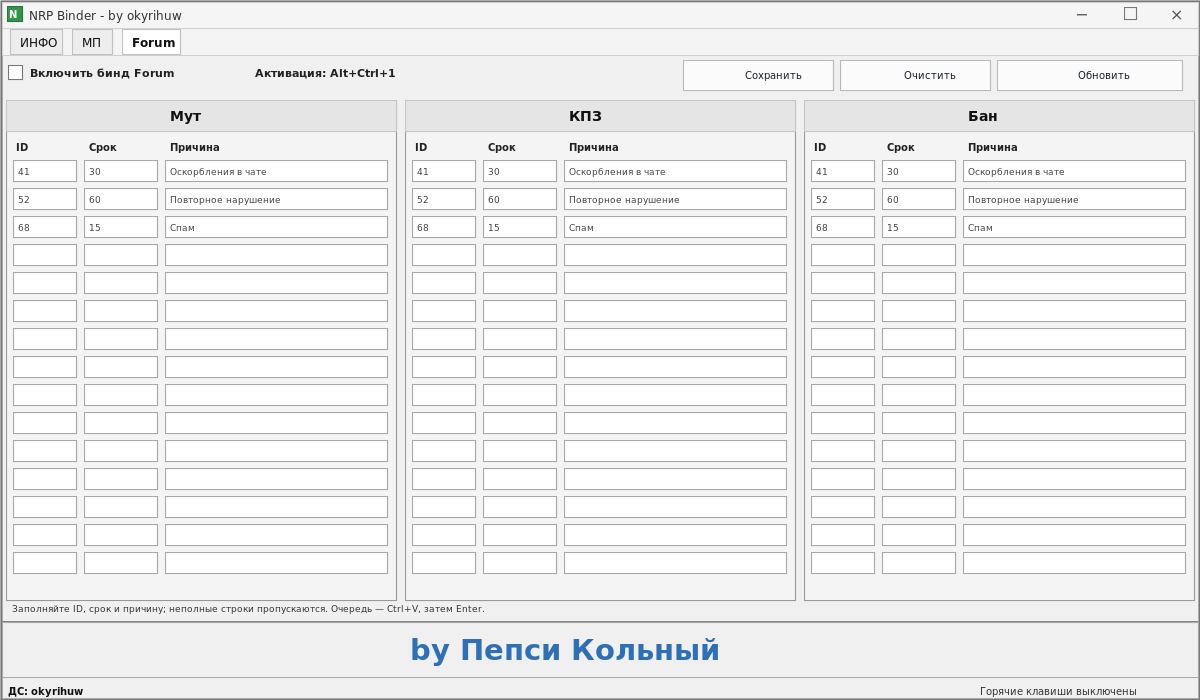
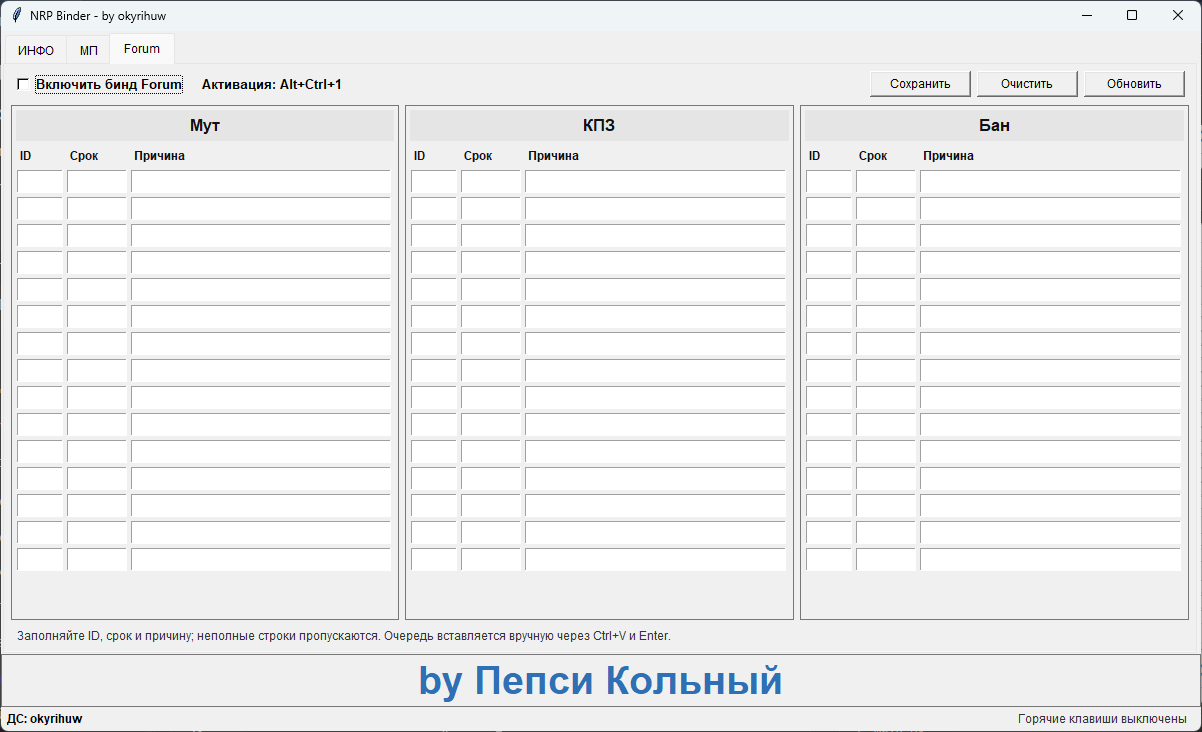
Use supplied screenshots and slashless Forum commands

Changed region(s): [[0.0, 0.0, 1.0, 1.0]]

diff --git a/main.py b/main.py
@@ -466,7 +466,7 @@ class App:
                   command=self._show_gmp_help, font=("Arial", 11)).pack(pady=5)
         tk.Button(card, text="Режим работы программы", width=30, height=2,
                   command=self._show_work_mode, font=("Arial", 11)).pack(pady=5)
-        tk.Label(card, text="Настройка игроков и горячих клавиш — во вкладке «МП».",
+        tk.Label(card, text="Настройка игроков и горячих клавиш - во вкладке «МП».",
                  bg=self.BG, font=("Arial", 10)).pack(pady=(15, 5))
 
     def _show_help_window(self, title: str, body: str) -> None:
@@ -496,9 +496,9 @@ class App:
                   font=("Arial", 10), width=14).grid(row=2, column=0, pady=(0, 10))
 
     def _show_gmp_help(self) -> None:
-        self._show_help_window("Как пользоваться МП", """1. Заполните ID игроков в нужной колонке. Четыре колонки — независимые группы, в каждой можно указать до 15 игроков. Пустые ID пропускаются.
+        self._show_help_window("Как пользоваться МП", """1. Заполните ID игроков в нужной колонке. Четыре колонки - независимые группы, в каждой можно указать до 15 игроков. Пустые ID пропускаются.
 
-2. Скины делят игроков внутри одной колонки на две последовательные команды. Если заполнены оба поля: первая половина ID получает «Скин 1», вторая — «Скин 2». При нечётном числе игроков первая команда получает на одного игрока больше. Если заполнено только одно поле скина, он применяется ко всем ID этой группы.
+2. Скины делят игроков внутри одной колонки на две последовательные команды. Если заполнены оба поля: первая половина ID получает «Скин 1», вторая - «Скин 2». При нечётном числе игроков первая команда получает на одного игрока больше. Если заполнено только одно поле скина, он применяется ко всем ID этой группы.
 
 3. Укажите до трёх ячеек оружия. Для каждого ID оружия выдаются по порядку: сначала все заполненные слоты первому игроку, затем следующему. Команда `/weapongive` получает 1000 патронов.
 
@@ -507,12 +507,12 @@ class App:
 5. Нажмите «Сохранить» для записи текущего пресета. «Обновить из пресета» загружает последнее сохранение, «Очистить поля» очищает только экран.
 
 БИНДЫ
-Ctrl+1 — телепорт игроков к себе
-Ctrl+2 — выдать скины по командам
-Ctrl+3 — выдать оружие
-Ctrl+4 — выдать здоровье
-Ctrl+5 — выдать броню
-Ctrl+6 — возродить игроков""")
+Ctrl+1 - телепорт игроков к себе
+Ctrl+2 - выдать скины по командам
+Ctrl+3 - выдать оружие
+Ctrl+4 - выдать здоровье
+Ctrl+5 - выдать броню
+Ctrl+6 - возродить игроков""")
 
     def _show_work_mode(self) -> None:
         self._show_help_window("Режим работы программы", """Программа работает полуавтоматически: она подготавливает команды в буфере обмена, а вставку и Enter вы нажимаете сами.
@@ -684,7 +684,7 @@ Ctrl+6 — возродить игроков""")
                     continue
                 if "\n" in reason or "\r" in reason:
                     continue
-                commands.append(f"/{command} {player_id} {duration} {reason}")
+                commands.append(f"{command} {player_id} {duration} {reason}")
         return commands
 
     def _field(self, parent: tk.Widget, key: str, label: str, row: int, width: int = 10,
@@ -816,7 +816,7 @@ Ctrl+6 — возродить игроков""")
     def _hotkey_action(self, index: int) -> None:
         commands = self._forum_commands() if index == len(HOTKEYS) else self._commands_for(index)
         if not commands:
-            self.status.set("Нет заполненных данных — очередь не создана")
+            self.status.set("Нет заполненных данных - очередь не создана")
             return
 
         target_hwnd = self.hotkeys.foreground_hwnd()

diff --git a/README.md b/README.md
@@ -1,4 +1,4 @@
-# NRP Binder — by okyrihuw
+# NRP Binder - by okyrihuw
 
 **Помощник для администрации NextRP**, созданный для повседневной работы с игровыми командами и форумными наказаниями.
 
@@ -9,7 +9,7 @@
 
 ## Интерфейс
 
-Ниже — предварительные иллюстративные макеты трёх вкладок. Они показывают состав и расположение элементов; это не снимки запущенного Windows-приложения.
+Скриншоты вкладок МП и Forum предоставлены владельцем проекта. Для ИНФО пока оставлен иллюстративный предпросмотр: файл этого скриншота не попал в доступные вложения.
 
 <table>
   <tr>
@@ -28,12 +28,12 @@
 
 ### МП
 
-Четыре независимые группы игроков. В каждой — до 15 ID, два скина и три слота оружия. Пустые и некорректно заполненные поля пропускаются.
+Четыре независимые группы игроков. В каждой - до 15 ID, два скина и три слота оружия. Пустые и некорректно заполненные поля пропускаются.
 
 - Два скина делят список ID примерно пополам; при нечётном числе первая группа получает на одного игрока больше. Один заполненный скин применяется ко всем ID своей колонки.
 - Оружие обрабатывается по каждому ID: сначала все заполненные слоты 1→2→3, затем следующий игрок.
 - Здоровье и броня применяются ко всем заполненным ID.
-- Бинды: **Ctrl+1** — телепорт, **Ctrl+2** — скины, **Ctrl+3** — оружие, **Ctrl+4** — здоровье, **Ctrl+5** — броня, **Ctrl+6** — возрождения.
+- Бинды: **Ctrl+1** - телепорт, **Ctrl+2** - скины, **Ctrl+3** - оружие, **Ctrl+4** - здоровье, **Ctrl+5** - броня, **Ctrl+6** - возрождения.
 
 ### Forum
 
@@ -41,11 +41,11 @@
 
 | Колонка | Команда |
 | --- | --- |
-| Мут | `/pmute ID СРОК ПРИЧИНА` |
-| КПЗ | `/jail ID СРОК ПРИЧИНА` |
-| Бан | `/pban ID СРОК ПРИЧИНА` |
+| Мут | `pmute ID СРОК ПРИЧИНА` |
+| КПЗ | `jail ID СРОК ПРИЧИНА` |
+| Бан | `pban ID СРОК ПРИЧИНА` |
 
-Неполные строки пропускаются. Бинд очереди Forum — **Alt+Ctrl+1**. Переключатели биндов у МП и Forum независимы; приложение проверяет конфликты сочетаний между включёнными вкладками. Кнопки сохранения, очистки и загрузки в каждой вкладке относятся только к её собственным данным.
+Неполные строки пропускаются. Бинд очереди Forum - **Alt+Ctrl+1**. Переключатели биндов у МП и Forum независимы; приложение проверяет конфликты сочетаний между включёнными вкладками. Кнопки сохранения, очистки и загрузки в каждой вкладке относятся только к её собственным данным.
 
 ### Полуавтоматическая очередь
 
@@ -63,4 +63,4 @@ python main.py
 
 ## Авторство
 
-**NRP Binder — by okyrihuw** — административный помощник для сервера **Байкальский**. Программа и интерфейс — **by Пепси Кольный**. Discord для связи: **okyrihuw**.
+**NRP Binder - by okyrihuw** - административный помощник для сервера **Байкальский**. Программа и интерфейс - **by Пепси Кольный**. Discord для связи: **okyrihuw**.
